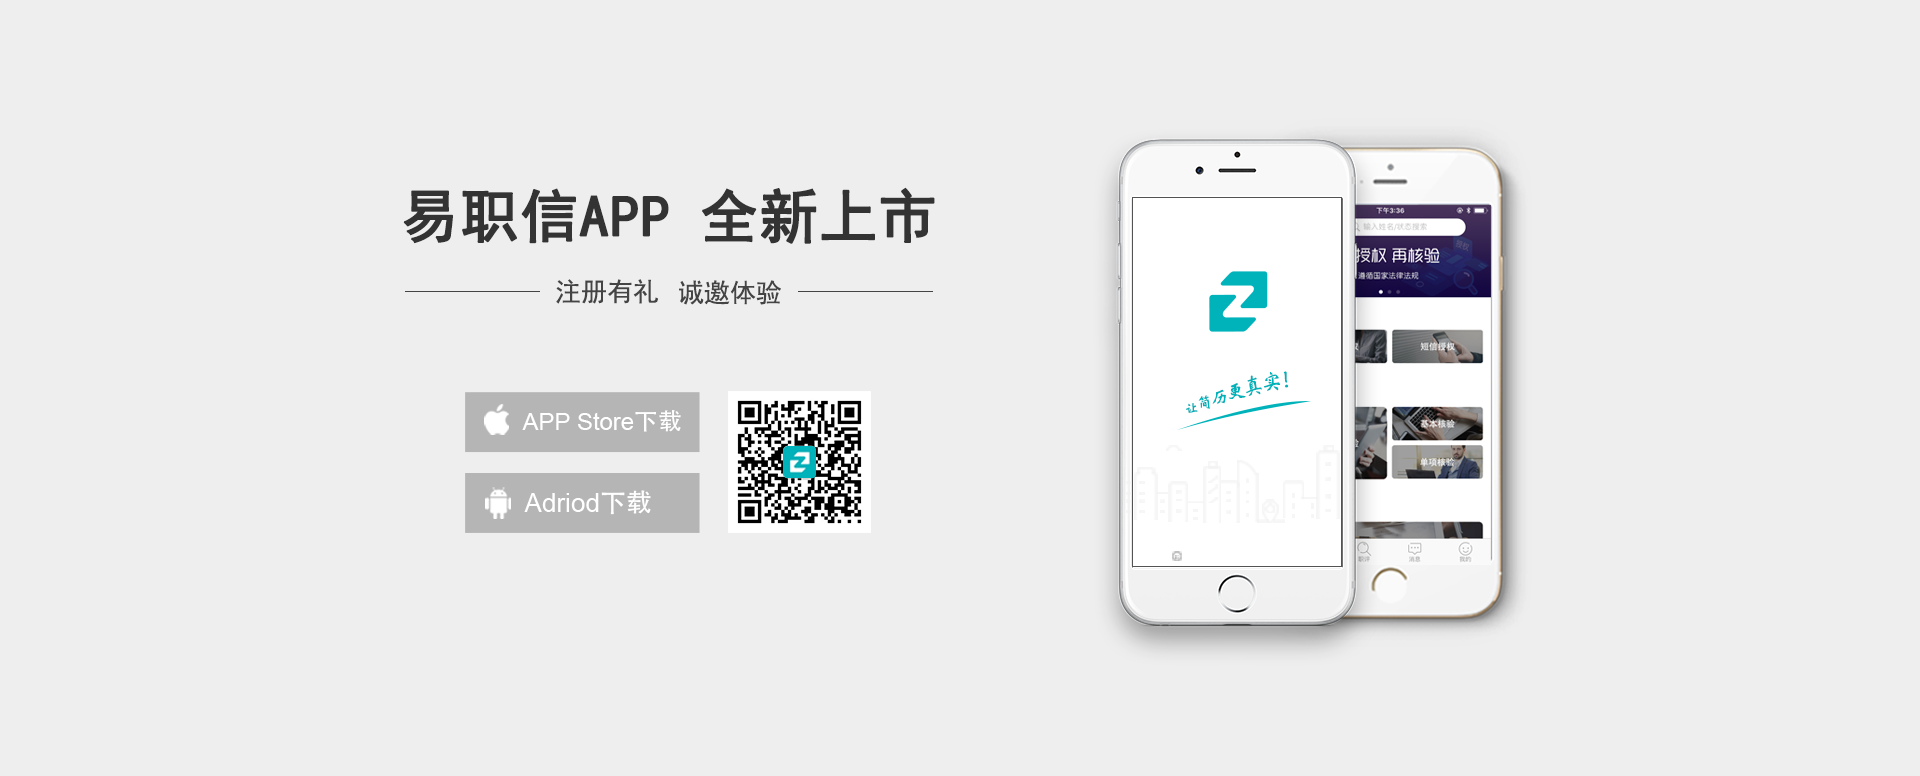
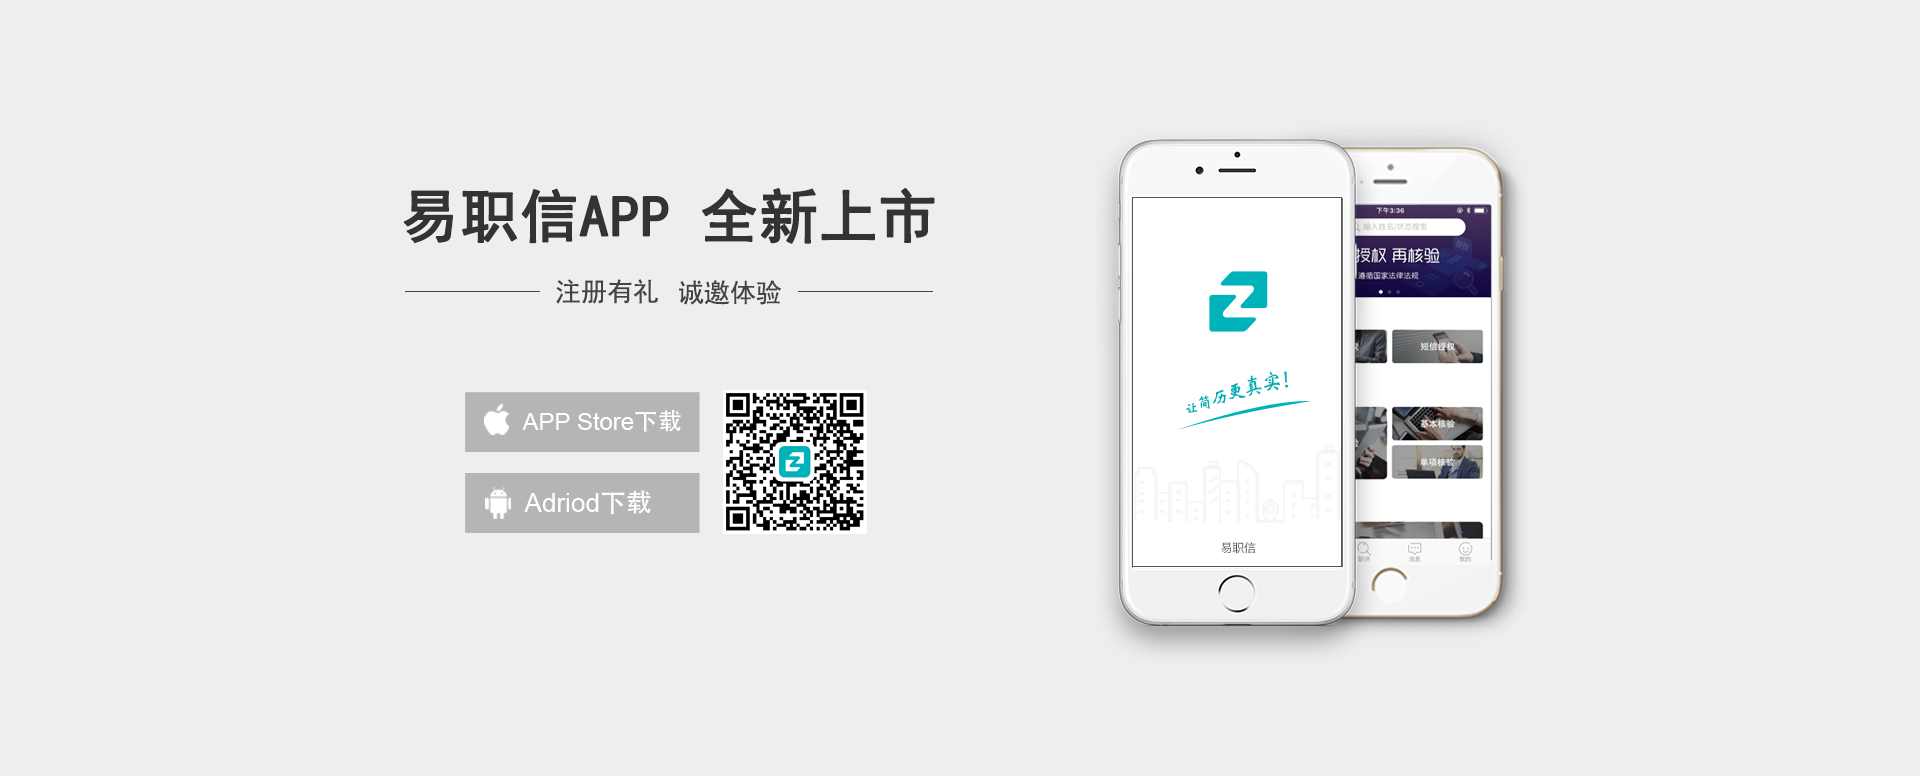
更换下载二维码

Changed region(s): [[0.375, 0.4948, 0.4688, 0.6804], [0.625, 0.6804, 0.6562, 0.7113]]

diff --git a/download.html b/download.html
@@ -15,7 +15,7 @@
     <link type="text/css" href="css/floatBtn1.min.css" rel="stylesheet">
     <link type="text/css" href="css/poshytipAndmCustomScrollbar.min.css" rel="stylesheet">
     <link type="text/css" href="css/jzcusstyle.css" rel="stylesheet">
-    <style type="text/css" id="styleWebSite">#bannerV2 .fk-inBannerListZone {
+    <style type="text/css" id="styleWebSite">#bannerV2 .fk-inBannerListZone{
         width: 1200px;
     }
 

diff --git a/index.html b/index.html
@@ -2352,7 +2352,7 @@
 <script src="js/modernizr-custom-v2.7.1.min.js" type="text/javascript"></script>
 <script src="js/jquery-finger-v0.1.0.min.js" type="text/javascript"></script>
 <script src="js/flickerplate.min.js" type="text/javascript"></script>
-
+<script src="https://s19.cnzz.com/z_stat.php?id=1272625027&web_id=1272625027" language="JavaScript"></script>
 
 <script type="text/javascript">
     $('.flicker-example').flicker();
